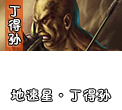
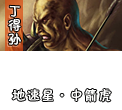
修复顺水重复播放配音的问题 修复找不到朱富的bug

Changed region(s): [[0.5656, 0.7909, 0.9344, 0.9545], [0.0738, 0.7909, 0.4426, 0.9273], [0.4672, 0.8455, 0.541, 0.9]]

diff --git a/scenarios/miniscene.html b/scenarios/miniscene.html
@@ -563,11 +563,11 @@ footnotes: function () {
 </div></div>
 <div class="sect2">
 <h3 id="_1_五雷天心">1、五雷天心</h3>
-<div class="paragraph"><p>使用单将挑战3体力4上限的公孙胜/乔道清双将。</p></div>
+<div class="paragraph"><p>使用单将挑战4体力上限的公孙胜/乔道清双将。</p></div>
 <div class="listingblock">
 <div class="content">
 <pre><tt>配置：
-敌军：公孙胜/乔道清 3/4勾玉
+敌军：公孙胜/乔道清[3/4HP]
 游戏开始时公孙胜/乔道清获得装备七星剑
 公孙胜/乔道清以4手牌开始游戏
 玩家首先行动</tt></pre>
@@ -579,32 +579,33 @@ footnotes: function () {
 <div class="listingblock">
 <div class="content">
 <pre><tt>配置：
-敌军：王庆/段三娘 5勾玉
+敌军：王庆/段三娘[4/5HP]
 游戏开始时王庆/段三娘获得装备连环马
 王庆/段三娘首先开始行动</tt></pre>
 </div></div>
 </div>
 <div class="sect2">
 <h3 id="_3_大闹白虎堂">3、大闹白虎堂</h3>
-<div class="paragraph"><p>使用单将，在林冲的帮助下杀死高俅、童贯。</p></div>
+<div class="paragraph"><p>使用单将，协助林冲杀死高俅。</p></div>
 <div class="listingblock">
 <div class="content">
 <pre><tt>配置：
-敌军：高俅 5勾玉（主公）， 童贯 4勾玉
-友军：林冲 4勾玉
+敌军：高俅[5HP]（主公），童贯[5HP]
+友军：林冲[4HP]
 游戏开始时童贯获得装备：诸葛白羽扇
 高俅首先开始行动</tt></pre>
 </div></div>
 </div>
 <div class="sect2">
 <h3 id="_4_保护生辰纲">4、保护生辰纲</h3>
-<div class="paragraph"><p>使用单将，在杨志的帮助下杀死晁盖、吴用、公孙胜。</p></div>
+<div class="paragraph"><p>使用单将，协助杨志杀死晁盖、吴用、公孙胜。</p></div>
 <div class="listingblock">
 <div class="content">
 <pre><tt>配置：
-敌军：晁盖 3勾玉， 吴用 3勾玉， 公孙胜 2/3勾玉
-友军：杨志 4勾玉
-游戏开始时杨志获得装备流星碎岩刀、雁翎圈金甲
+敌军：晁盖[3HP]，吴用[3HP]，公孙胜[2/3HP]勾玉
+友军：杨志[4HP]（主公）
+游戏开始时杨志获得装备流星碎岩刀、雁翎圈金甲，手牌日月霜刀、水磨禅杖
+吴用获得装备诸葛白羽扇；公孙胜获得装备七星剑
 公孙胜首先开始行动</tt></pre>
 </div></div>
 </div>
@@ -614,8 +615,8 @@ footnotes: function () {
 <div class="listingblock">
 <div class="content">
 <pre><tt>配置：
-敌军：武松 4勾玉， 神武松 5勾玉
-友军：潘金莲 3勾玉（主公）
+敌军：武松[4HP]，神武松[5HP]
+友军：潘金莲[3HP]（主公）
 潘金莲以2张手牌开始游戏
 游戏开始时玩家获得装备劈风刀
 武松首先开始行动</tt></pre>
@@ -623,81 +624,80 @@ footnotes: function () {
 </div>
 <div class="sect2">
 <h3 id="_6_火并王伦">6、火并王伦</h3>
-<div class="paragraph"><p>使用单将，在林冲的帮助下突破宋万、杜迁，杀死王伦。</p></div>
+<div class="paragraph"><p>使用单将，和林冲配合，突破宋万、杜迁，杀死王伦。</p></div>
 <div class="listingblock">
 <div class="content">
 <pre><tt>配置：
-敌军：宋万 4勾玉， 杜迁 4勾玉， 王伦 4勾玉（主公）
-友军：林冲 4勾玉
+敌军：宋万[4HP]，杜迁[4HP]，王伦[4HP]（主公）
+友军：林冲[4HP]
 玩家以3体力5张手牌开始游戏
-王伦以8手牌开始游戏
-游戏开始时，王伦获得装备甲马、桃花；林冲获得装备鱼肠剑
+王伦以6手牌开始游戏
+游戏开始时，王伦获得装备甲马、拳色银花；林冲获得装备鱼肠剑
 林冲首先开始行动</tt></pre>
 </div></div>
 </div>
 <div class="sect2">
-<h3 id="_7_铁与血与火">7、铁与血与火</h3>
-<div class="paragraph"><p>使用双将，协助卧龙/庞统击败所有魏军。</p></div>
+<h3 id="_7_武松打虎">7、武松打虎</h3>
+<div class="paragraph"><p>使用双将，协助武松等打虎英雄击杀所有“老虎”。</p></div>
 <div class="listingblock">
 <div class="content">
 <pre><tt>配置：
-敌军：于禁 4勾玉 夏侯渊 4勾玉 庞令明 4勾玉
-友军：卧龙/庞统 4勾玉
-游戏开始时，夏侯渊获得装备藤甲，庞令明获得装备藤甲与贯石斧，卧龙/庞统获得装备朱雀羽扇
-玩家首先开始行动</tt></pre>
+敌军：锦毛虎燕顺[4HP]，花项虎龚旺[4HP]，中箭虎丁得孙[7HP]，笑面虎朱富[3HP]，母大虫顾大嫂[4HP]
+友军：行者武松[5HP]（主公），打虎将李忠[3/4HP]，病大虫薛永[3/4HP]
+游戏开始时，燕顺获得装备雪豹，丁得孙获得装备麒麟黄金盾，武松获得装备青龙偃月刀
+李忠首先开始行动</tt></pre>
 </div></div>
 </div>
 <div class="sect2">
-<h3 id="_8_天下无双">8、天下无双</h3>
-<div class="paragraph"><p>使用单将/刘备，协助关羽和张飞击败吕布军。</p></div>
+<h3 id="_8_水军操演">8、水军操演</h3>
+<div class="paragraph"><p>使用单将[3HP]，迎战所有水军。</p></div>
 <div class="listingblock">
 <div class="content">
 <pre><tt>配置：
-敌军：吕布/高顺 5勾玉 陈宫/貂蝉 3勾玉
-友军：关羽 4勾玉 张飞 4勾玉
-游戏开始时吕布/高顺获得装备方天画戟与赤兔，陈宫/貂蝉获得装备骅骝
-关羽获得装备青龙偃月刀，张飞获得装备丈八蛇矛
-
-玩家抽选武将后获得副将刘备（如果玩家已选择了刘备那么获得公孙瓒）
-陈宫/貂蝉首先开始行动</tt></pre>
+敌军：张顺[3/4HP]、阮小二[4HP]、阮小七[3/4HP]、童威[3/4HP]、童猛[3/4HP]（均为内奸）
+游戏开始时玩家获得装备甲马、麒麟兽，张顺获得装备鱼肠剑，童威和童猛判定区添加海啸
+玩家以6张牌开始游戏，首先开始行动</tt></pre>
 </div></div>
 </div>
 <div class="sect2">
-<h3 id="_9_你死我活">9、你死我活</h3>
-<div class="paragraph"><p>使用单将，在法正/蔡文姬的帮助下击败司马懿/荀彧和夏侯惇。</p></div>
+<h3 id="_9_斗法高唐州">9、斗法高唐州</h3>
+<div class="paragraph"><p>使用单将/杜微，协助高廉击败公孙胜、樊瑞、罗真人。</p></div>
 <div class="listingblock">
 <div class="content">
 <pre><tt>配置：
-敌军：司马懿/荀彧 4勾玉 夏侯惇 4勾玉
-友军：法正/蔡文姬 3勾玉
-玩家首先开始行动</tt></pre>
+敌军：公孙胜[3HP]、樊瑞[3HP]、罗真人[3HP]
+友军：高廉[4HP]（主公）
+游戏开始时高廉获得装备飞燕弩，公孙胜获得手牌“斗法破高廉”。
+玩家抽选武将后获得副将杜微（如果玩家已选择了杜微那么获得阮小二）
+高廉首先开始行动</tt></pre>
 </div></div>
 </div>
 <div class="sect2">
-<h3 id="_10_步步惊心">10、步步惊心</h3>
-<div class="paragraph"><p>使用双将，在甄姬的帮助下击败孙尚香、吴国太和大乔</p></div>
+<h3 id="_10_人肉叉烧包">10、人肉叉烧包</h3>
+<div class="paragraph"><p>使用单将，在3血素将的帮助下击败张青、孙二娘</p></div>
 <div class="listingblock">
 <div class="content">
 <pre><tt>配置
-敌军：孙尚香 4勾玉 吴国太 3勾玉 大乔 3勾玉
-友军：甄姬 3勾玉
-游戏开始时，玩家获得装备雌雄双股剑
-玩家首先开始行动</tt></pre>
+敌军：张青[3HP]、孙二娘[3HP]
+友军：稻草男[3HP]
+游戏开始时，玩家获得220号手牌
+张青首先开始行动</tt></pre>
 </div></div>
 </div>
 <div class="sect2">
-<h3 id="_11_措手不及">11、措手不及</h3>
-<div class="paragraph"><p>使用双将，在孙尚香/凌统的帮助下击败张辽、甘宁/孙坚和庞德</p></div>
+<h3 id="_11_轮奸阎婆惜">11、轮奸阎婆惜</h3>
+<div class="paragraph"><p>使用单将，帮助呼保义宋江击败阎惜娇/段三娘</p></div>
 <div class="listingblock">
 <div class="content">
 <pre><tt>配置
-敌军：张辽/陆抗 4勾玉 甘宁/孙坚 4勾玉 庞德 3勾玉
-友军：孙尚香/凌统 4勾玉
-游戏开始时，张辽/陆抗获得装备寒冰剑，甘宁/孙坚获得装备古锭刀，庞德获得装备青龙偃月刀
-玩家首先开始行动</tt></pre>
+敌军：阎惜娇/段三娘[5HP]（主公）
+友军：呼保义宋江[4HP]
+游戏开始时，阎惜娇/段三娘获得装备雪豹，手牌128号，宋江获得装备桃花
+玩家和宋江处于横置状态
+宋江首先开始行动</tt></pre>
 </div></div>
 </div>
-<div class="sect2">
+<!--<div class="sect2">
 <h3 id="_12_翻云覆雨">12、翻云覆雨</h3>
 <div class="paragraph"><p>使用单将，在徐盛的帮助下击败曹丕。</p></div>
 <div class="listingblock">
@@ -836,11 +836,11 @@ footnotes: function () {
 </div>
 </div>
 </div>
-</div>
+</div>-->
 <div id="footnotes"><hr /></div>
 <div id="footer">
 <div id="footer-text">
-Last updated 2012-01-18 18:58:38 澳大利亚东部夏令时
+Last updated 2012-02-07 21:40:04 庆历四年春
 </div>
 </div>
 </body>

diff --git a/src/scenario/miniscenarios.cpp b/src/scenario/miniscenarios.cpp
@@ -13,7 +13,7 @@ void MiniSceneRule::assign(QStringList &generals, QStringList &roles) const{
     {
         QMap<QString,QString> sp =players.at(i);
         QString name = sp["general"];
-        if(name == "select")name = "sujiang";
+        if(name == "select")name = "anjiang";
         generals << name;
         roles << sp["role"];
     }
@@ -26,11 +26,11 @@ QStringList MiniSceneRule::existedGenerals() const
     {
         QMap<QString,QString> sp =players.at(i);
         QString name = sp["general"];
-        if(name == "select")name = "sujiang";
+        if(name == "select")name = "anjiang";
         names << name;
         name = sp["general2"];
         if(name == NULL )continue;
-        if(name == "select")name = "sujiang";
+        if(name == "select")name = "anjiang";
         names << name;
     }
     return names;
@@ -129,7 +129,7 @@ bool MiniSceneRule::trigger(TriggerEvent event, ServerPlayer *player, QVariant &
                     general = room->askForGeneral(sp,available);
                 }
                 if(general == sp->getGeneralName())general = this->players.at(i)["general3"];
-                QString trans = QString("%1:%2").arg("sujiang").arg(general);
+                QString trans = QString("%1:%2").arg("anjiang").arg(general);
                 sp->invoke("transfigure",trans);
                 room->setPlayerProperty(sp,"general2",general);
             }
@@ -303,11 +303,11 @@ ADD_CUSTOM_SCENARIO(03)
 ADD_CUSTOM_SCENARIO(04)
 ADD_CUSTOM_SCENARIO(05)
 ADD_CUSTOM_SCENARIO(06)
-/*ADD_CUSTOM_SCENARIO(07)
+ADD_CUSTOM_SCENARIO(07)
 ADD_CUSTOM_SCENARIO(08)
 ADD_CUSTOM_SCENARIO(09)
 ADD_CUSTOM_SCENARIO(10)
-ADD_CUSTOM_SCENARIO(11)
+/*ADD_CUSTOM_SCENARIO(11)
 ADD_CUSTOM_SCENARIO(12)
 ADD_CUSTOM_SCENARIO(13)
 ADD_CUSTOM_SCENARIO(14)

diff --git a/src/package/ybyt.cpp b/src/package/ybyt.cpp
@@ -918,13 +918,13 @@ public:
         if(effect.to == zhufu)
             return false;
 
-        if(zhufu->getPhase() != Player::NotActive)
+        if(!zhufu || zhufu->getPhase() != Player::NotActive)
             return false;
 
         if(!effect.card->inherits("Peach"))
             return false;
 
-        if(zhufu && !zhufu->isNude() && zhufu->isWounded()){
+        if(!zhufu->isNude() && zhufu->isWounded()){
             const Card *card = room->askForCard(zhufu, "..H", "@guitai:" + effect.to->objectName(), data);
             if(card){
                 room->playSkillEffect(objectName());

diff --git a/src/core/engine.cpp b/src/core/engine.cpp
@@ -108,11 +108,11 @@ Engine::Engine()
     addScenario(NewMiniScene_04());
     addScenario(NewMiniScene_05());
     addScenario(NewMiniScene_06());
-    /*addScenario(NewMiniScene_07());
+    addScenario(NewMiniScene_07());
     addScenario(NewMiniScene_08());
     addScenario(NewMiniScene_09());
     addScenario(NewMiniScene_10());
-    addScenario(NewMiniScene_11());
+    /*addScenario(NewMiniScene_11());
     addScenario(NewMiniScene_12());
     addScenario(NewMiniScene_13());
     addScenario(NewMiniScene_14());

diff --git a/src/server/server.cpp b/src/server/server.cpp
@@ -500,6 +500,7 @@ QGroupBox *ServerDialog::createGameModeBox(){
 
     QRadioButton *button = new QRadioButton(tr("Custom Mode"));
     button->setObjectName("custom");
+    button->setVisible(false);
     mode_group->addButton(button);
     item_list << button;
     if(button->objectName() == Config.GameMode)

diff --git a/src/package/xzzd.cpp b/src/package/xzzd.cpp
@@ -381,7 +381,6 @@ public:
                     jink->setSkillName(objectName());
                     room->provide(jink);
                     room->setEmotion(player, "good");
-                    room->playSkillEffect(objectName());
                     return true;
                 }
             }
